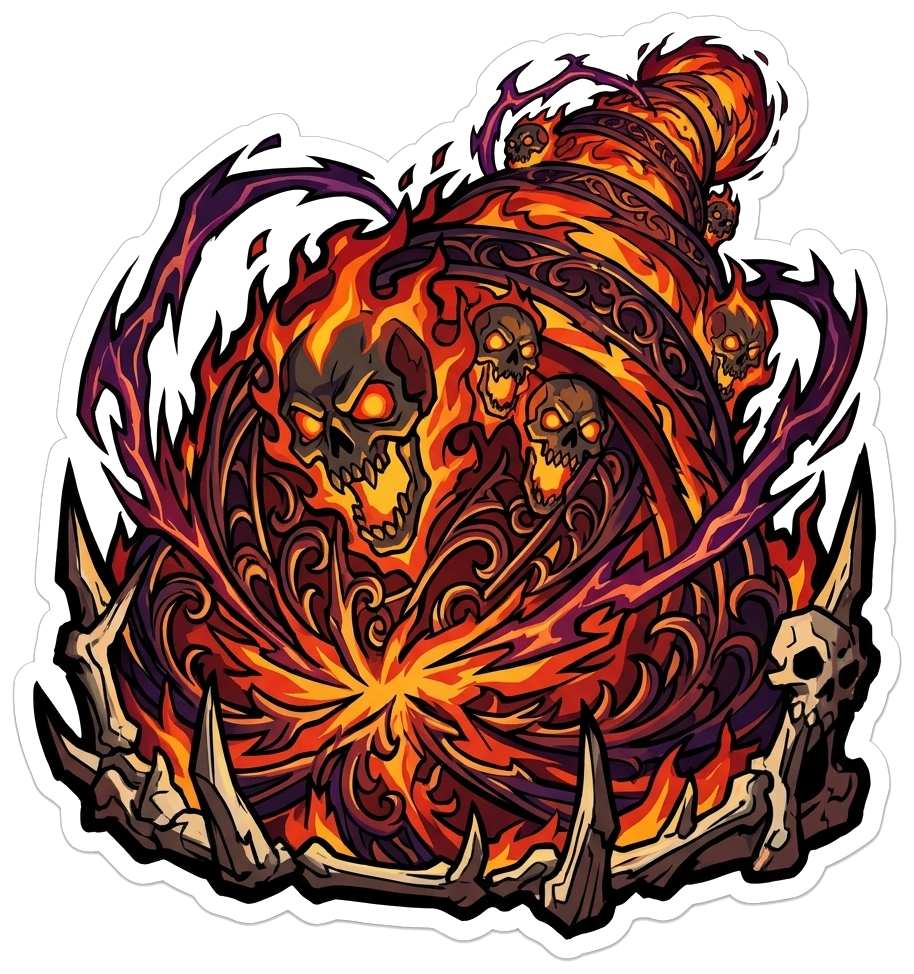
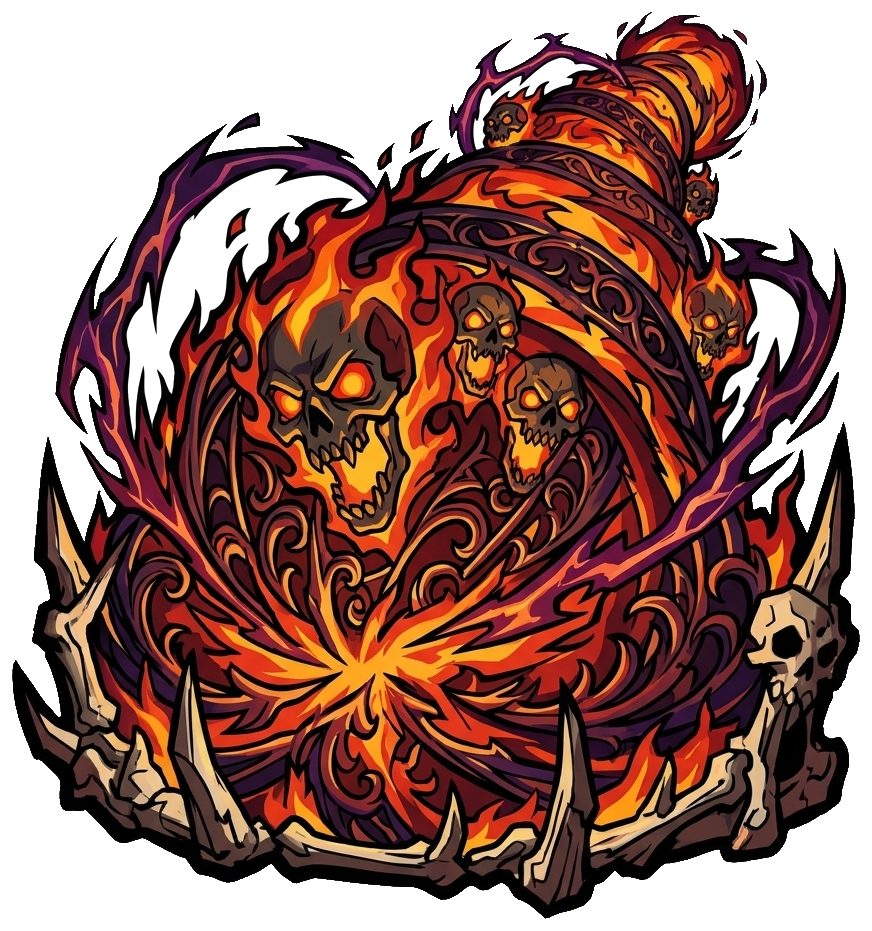
fix(art): remove white sticker border and internal gaps from red_162_cataclismo_estrela_rubra

diff --git a/src/components/CardView.tsx b/src/components/CardView.tsx
@@ -363,7 +363,7 @@ export const CardView: React.FC<CardViewProps> = ({
           <div className={`mtg-token-art aura-${displayCard.domain}`}>
             {!imgError && displayCard.imagePath ? (
               <img
-                src={`${displayCard.imagePath}?v=44`}
+                src={`${displayCard.imagePath}?v=45`}
                 alt={displayName}
                 className="mtg-token-img"
                 onError={() => setImgError(true)}
@@ -520,7 +520,7 @@ export const CardView: React.FC<CardViewProps> = ({
 
           {!imgError && displayCard.imagePath ? (
             <img
-              src={`${displayCard.imagePath}?v=44`}
+              src={`${displayCard.imagePath}?v=45`}
               alt={displayName}
               className="card-cutout-img"
               onError={() => setImgError(true)}

diff --git a/src/components/MythologyAtlasView.tsx b/src/components/MythologyAtlasView.tsx
@@ -342,7 +342,7 @@ export const MythologyAtlasView: React.FC<MythologyAtlasViewProps> = ({ onInspec
                         title={`Clique para inspecionar ${card.name}`}
                       >
                         <img
-                          src={`${card.imagePath}?v=17`}
+                          src={`${card.imagePath}?v=18`}
                           alt={card.name}
                           className="poem-card-medallion-img"
                           loading="lazy"
